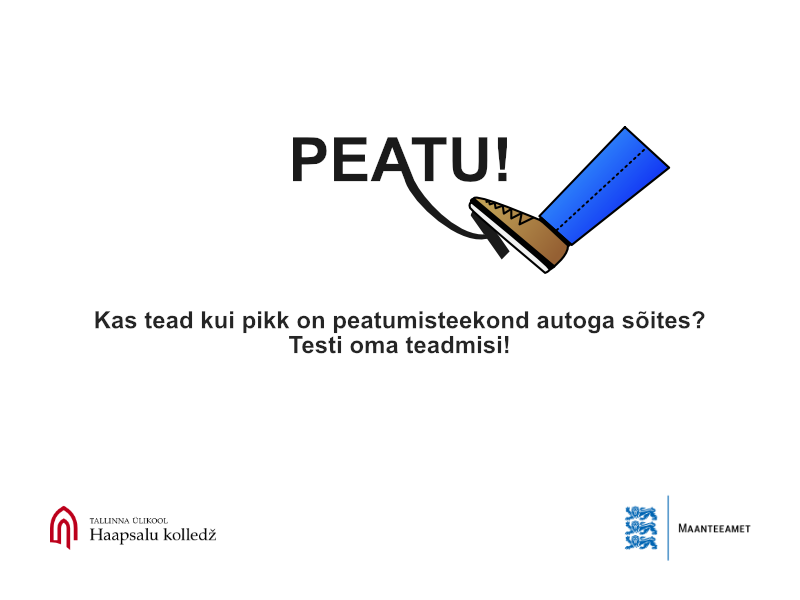
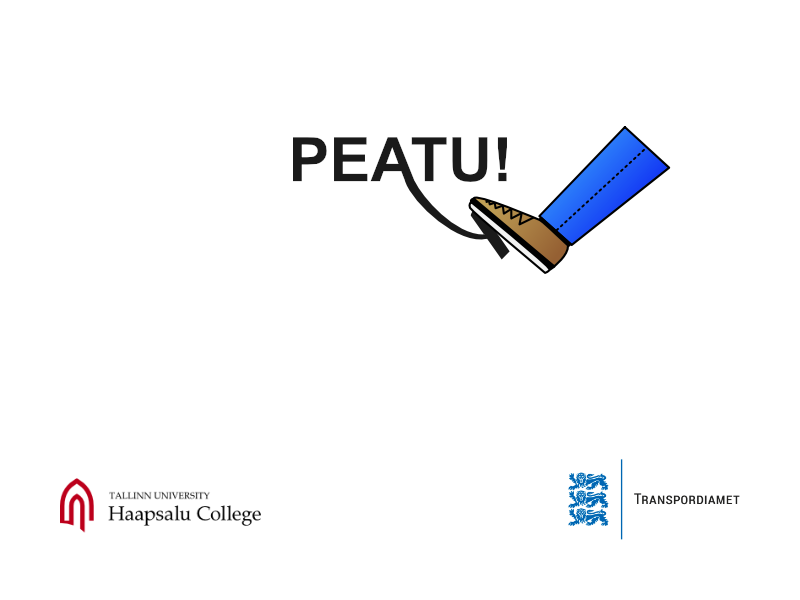
taustamuudatus,avalehel tekst tuleb .txt failist, hyyumark

Changed region(s): [[0.0938, 0.51, 0.875, 0.6], [0.6875, 0.78, 0.9375, 0.93], [0.0625, 0.78, 0.3438, 0.93]]

diff --git a/game.js b/game.js
@@ -25,6 +25,7 @@ function preload () {
     game.load.image('car', 'assets/car_r.png');
     game.load.image('kits', 'assets/kast.png');
     game.load.image('rist', 'assets/rist.png');
+    game.load.image('hyyumark', 'assets/hyyumark.png');
     game.load.image('kiiruseNupp', 'assets/nupp.png');
     game.load.image('lipp', 'assets/lipp.png');
     game.load.image('lippMust', 'assets/lipp_must.png');
@@ -51,7 +52,7 @@ function preload () {
     // nupude pildid
     game.load.spritesheet('startStopNupp', 'assets/startstop_nupp.png', 150, 50);
     game.load.spritesheet('uuestiNupp', 'assets/proovinuuesti.png', 200, 51);
-    game.load.spritesheet('proovinNupp', 'assets/proovin.png', 150, 50);
+    game.load.spritesheet('proovinNupp', 'assets/sinine_nupp.png', 150, 50);
     game.load.spritesheet('jatkanNupp', 'assets/jatkan.png', 130, 50);
     game.load.spritesheet('l6petanNupp', 'assets/lopetan.png', 150, 50);
     game.load.spritesheet('heliNupp', 'assets/helinupp.png', 35, 35);
@@ -67,6 +68,12 @@ function preload () {
     game.load.spritesheet('rehv_2', 'assets/kulunudrehvid_nupp.png', 104, 25);
     game.load.spritesheet('rehv_3', 'assets/naastrehvid_nupp.png', 104, 25);
     game.load.spritesheet('rehv_4', 'assets/lamellrehvid_nupp.png', 104, 25); */
+
+    // tekstid
+    game.load.text('avalehtTekst', 'assets/text_est/avaleht.txt');
+    game.load.text('avalehtTestin', 'assets/text_est/avaleht_testin.txt');
+
+
 }
 
 takistuseKaugus = 5000;
@@ -152,6 +159,17 @@ function create () {
     avaleht = game.add.sprite(0, 0, 'avaleht')   
     game.physics.arcade.enable(avaleht)
     proovinNupp = game.add.button(325, 400, 'proovinNupp', proovinClick, this, 0, 0, 0);
+    
+    // võtan nupu teksti muutujast
+    proovinText = game.cache.getText('avalehtTestin');
+    // panen teksti kuvama
+    proovinTekst = game.add.text(357, 412, proovinText,  { font: "22px Arial", fill: '#ffffff', fontWeight: "500" });
+    //avalehe tekst
+    avalehtText = game.cache.getText('avalehtTekst');
+    // panen teksti kuvama
+    avalehtTekst = game.add.text(163, 300, avalehtText,  { font: "20px Arial", fill: '#000', fontWeight: "500",align: 'center' });
+
+
 
     // nupud heli ja juhised
     nupuTaust = game.add.sprite(675, 20, 'nupuTaust')   
@@ -695,7 +713,7 @@ function otsaSoit() {
         takistus.destroy();
         player.destroy();
         
-        takistus = game.add.sprite(takistusePositsioon, game.world.height - 294, 'rist')
+        takistus = game.add.sprite(takistusePositsioon, game.world.height - 294, 'hyyumark')
         player = game.add.sprite(autoPositsioon, game.world.height - 247, 'car')        
         
         game.physics.arcade.enable(takistus)

diff --git a/index.html b/index.html
@@ -2,11 +2,16 @@
 <html>
 <head>
 <meta charset="utf-8">
+<style>
+body {
+  background-image: url('taustapilt.png');
+}
+</style>
 <title>Peatu</title>
 <script type="text/javascript" src="phaser.min.js"></script>
 </head>
 <body>
-<script type="text/javascript" src="game.js"></script>
+<script type="text/javascript" src="game.js" id="container"></script>
 </body>
 </html>
 
